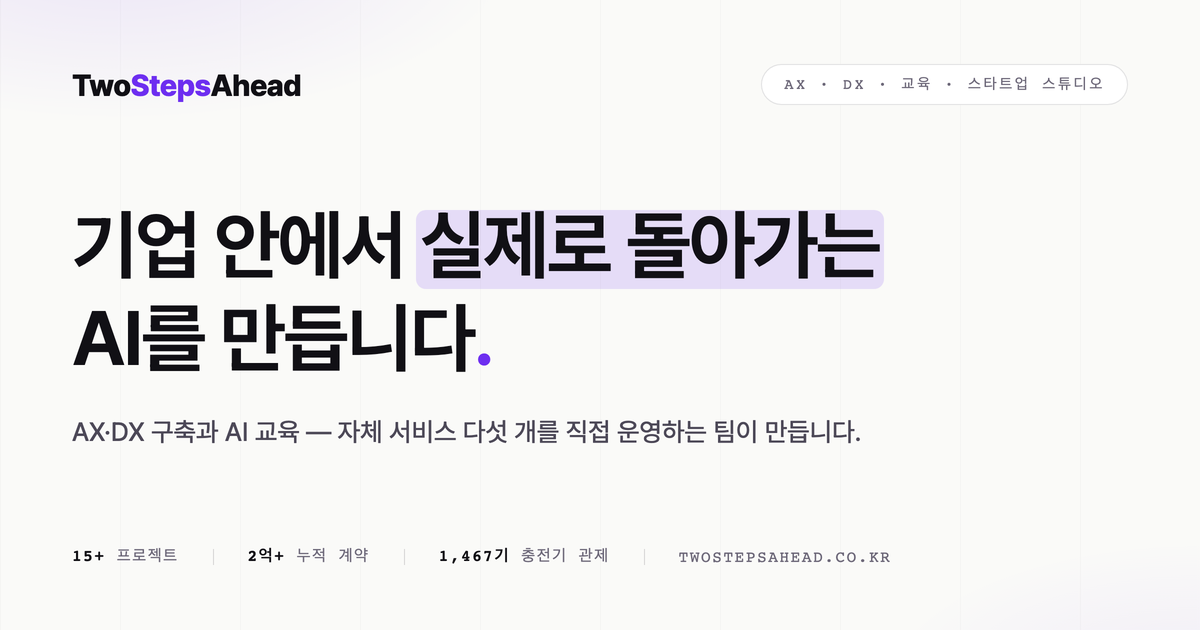
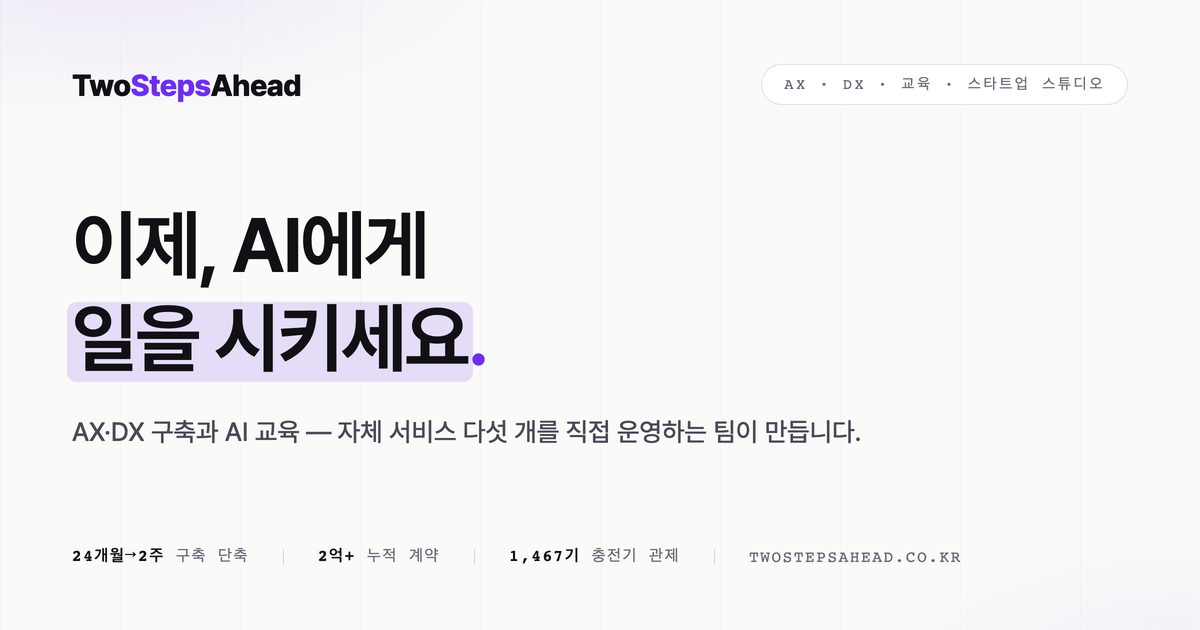
feat(hero): 히어로 문구 교체 + 스토리형 스탯 + 전체 포트폴리오 마퀴
- 헤드라인: '기업 안에서 실제로 돌아가는 AI를 만듭니다' → '이제, AI에게 일을 시키세요.'
  (하이라이트 마크 = '일을 시키세요')
- 스탯을 성과 스토리형으로 재구성(joshua 문법 변주, 전부 공개 검증 수치):
  24개월→2주 구축 단축 · 1,467기 실운영 · 2억+ 누적 계약 · 5개 운영 서비스
- 클라이언트월 → 무한 횡스크롤 마퀴(11사 전체 나열: +아워컨설팅·한인텔·더블유디자인호텔·한국관광공사)
  호버 일시정지·edge 페이드·reduced-motion 정적 폴백
- OG 이미지 재생성(새 헤드라인·스탯 동기화)

Changed region(s): [[0.0308, 0.3317, 0.74, 0.6333], [0.0617, 0.8746, 0.8017, 0.9048]]

diff --git a/src/app/components/StatsBand.tsx b/src/app/components/StatsBand.tsx
@@ -1,10 +1,62 @@
+import { useReducedMotion } from 'motion/react';
 import { Reveal } from './anim/Reveal';
 import { CLIENTS, STATS } from '../content';
 
 /**
- * 스탯 밴드 + 클라이언트 텍스트월 — 히어로 직후 얇은 신뢰 밴드.
- * 로고 이미지 없이 텍스트 로우(회색)로 클라이언트를 나열한다.
+ * 히어로 직후 신뢰 밴드 — 성과 스토리형 스탯 4개(숫자가 변화를 말하게)
+ * + 전체 포트폴리오·파트너 무한 횡스크롤 마퀴.
  */
+function ClientMarquee() {
+  const reduce = useReducedMotion();
+
+  const Row = ({ ariaHidden = false }: { ariaHidden?: boolean }) => (
+    <div
+      className="flex shrink-0 items-center gap-12 pr-12"
+      aria-hidden={ariaHidden || undefined}
+    >
+      {CLIENTS.map((c) => (
+        <span
+          key={c}
+          className="flex items-center gap-12 whitespace-nowrap font-dc-display text-[17px] font-semibold tracking-[-0.01em] text-[color:var(--lt-mute-2)]"
+        >
+          {c}
+          <span aria-hidden="true" className="h-1 w-1 rounded-full bg-[color:var(--lt-line)]" />
+        </span>
+      ))}
+    </div>
+  );
+
+  if (reduce) {
+    // reduced-motion: 애니메이션 없이 전체 나열
+    return (
+      <div className="flex flex-wrap items-center gap-x-10 gap-y-3 py-7">
+        {CLIENTS.map((c) => (
+          <span key={c} className="font-dc-display text-[16px] font-semibold text-[color:var(--lt-mute-2)]">
+            {c}
+          </span>
+        ))}
+      </div>
+    );
+  }
+
+  return (
+    <div
+      className="lt-marquee relative overflow-hidden py-7"
+      role="marquee"
+      aria-label={`포트폴리오·파트너: ${CLIENTS.join(', ')}`}
+      style={{
+        maskImage: 'linear-gradient(90deg, transparent, black 8%, black 92%, transparent)',
+        WebkitMaskImage: 'linear-gradient(90deg, transparent, black 8%, black 92%, transparent)',
+      }}
+    >
+      <div className="lt-marquee-track flex w-max">
+        <Row />
+        <Row ariaHidden />
+      </div>
+    </div>
+  );
+}
+
 export function StatsBand() {
   return (
     <section className="border-y border-[color:var(--lt-line)] bg-[color:var(--lt-card)] px-5 md:px-8">
@@ -13,28 +65,19 @@ export function StatsBand() {
           <dl className="grid grid-cols-2 gap-x-8 gap-y-8 py-10 md:grid-cols-4">
             {STATS.map((s) => (
               <div key={s.k} className="flex flex-col gap-1.5">
-                <dd className="order-1 font-dc-display text-[clamp(1.7rem,3vw,2.4rem)] font-semibold leading-none tracking-[-0.02em] text-[color:var(--lt-ink)]">
+                <dd className="order-1 break-keep font-dc-display text-[clamp(1.5rem,2.6vw,2.1rem)] font-semibold leading-tight tracking-[-0.02em] text-[color:var(--lt-ink)]">
                   {s.v}
                 </dd>
-                <dt className="order-2 font-dc-mono text-[10.5px] uppercase tracking-[0.14em] text-[color:var(--lt-mute-2)]">
+                <dt className="order-2 break-keep font-dc-body text-[12.5px] leading-snug text-[color:var(--lt-mute-2)]">
                   {s.k}
                 </dt>
               </div>
             ))}
           </dl>
         </Reveal>
-        <Reveal delay={0.08}>
-          <div className="flex flex-wrap items-center gap-x-8 gap-y-3 border-t border-[color:var(--lt-line)] py-7">
-            <span className="font-dc-mono text-[10.5px] uppercase tracking-[0.18em] text-[color:var(--lt-mute-2)]">
-              Clients &amp; Partners
-            </span>
-            {CLIENTS.map((c) => (
-              <span key={c} className="font-dc-display text-[15px] font-semibold tracking-[-0.01em] text-[color:var(--lt-mute-2)]">
-                {c}
-              </span>
-            ))}
-          </div>
-        </Reveal>
+        <div className="border-t border-[color:var(--lt-line)]">
+          <ClientMarquee />
+        </div>
       </div>
     </section>
   );

diff --git a/src/app/content.ts b/src/app/content.ts
@@ -16,22 +16,29 @@ export const HERO = {
   chip: 'AX · DX · 교육 · 스타트업 스튜디오',
   /** headline: highlight=true 세그먼트에 형광 마크 */
   headline: [
-    { text: '기업 안에서 ', highlight: false },
-    { text: '실제로 돌아가는', highlight: true },
-    { text: ' AI를 만듭니다', highlight: false },
+    { text: '이제, AI에게 ', highlight: false },
+    { text: '일을 시키세요', highlight: true },
   ],
   sub: '투스텝스어헤드는 AX·DX를 설계하고 구축하는 AI 개발사입니다.\n자체 AI 서비스 다섯 개를 직접 운영하며, 그 경험 그대로 기업에 적용합니다.',
   primaryCta: { label: '무료 상담받기', href: '#contact' },
   secondaryCta: { label: '사례 보기', href: '#work' },
 };
 
+/**
+ * 성과 스토리형 스탯 — 숫자가 속도·역량의 변화를 말하게(joshua 문법의 변주).
+ * 전부 공개 검증분: 24개월→2주·1,467기(ChargeFLOW 공개 제안서), 2억+(위시켓 프로필).
+ */
 export const STATS = [
-  { v: '15+', k: '프로젝트' },
-  { v: '2억+', k: '누적 계약 · 설립 6개월' },
-  { v: '5개', k: '직접 운영하는 서비스' },
-  { v: '1,467기', k: '충전기 실운영 관제' },
+  { v: '24개월 → 2주', k: '충전 관제 구축, 구독 도입으로 단축' },
+  { v: '1,467기', k: '실운영 중인 충전기 관제' },
+  { v: '2억+', k: '설립 6개월 차 누적 계약' },
+  { v: '5개', k: '직접 만들어 운영하는 AI 서비스' },
 ];
 
+/**
+ * 포트폴리오·파트너 전체 — 무한 횡스크롤 마퀴용.
+ * 전부 위시켓·크몽에 공개된 실명(의료기관 등 익명 건 제외).
+ */
 export const CLIENTS = [
   '한솔엠에스',
   '어센트코리아',
@@ -40,6 +47,10 @@ export const CLIENTS = [
   'Kozy.care',
   '올댓아너스클럽',
   '레비타로',
+  '아워컨설팅',
+  '한인텔',
+  '더블유디자인호텔',
+  '한국관광공사',
 ];
 
 export const JOURNEY = {

diff --git a/src/styles/theme.css b/src/styles/theme.css
@@ -479,6 +479,17 @@
   /* Engineering-studio signal: 시스템 모노 스택 (폰트 로드 0) — 아이브로우·태그·메타 전용 */
   .font-dc-mono    { font-family: ui-monospace, 'SF Mono', 'Cascadia Mono', 'Roboto Mono', monospace; }
 
+  /* 클라이언트 마퀴 — 트랙을 2벌 복제해 -50% 이동으로 무한 루프. 호버 일시정지,
+     reduced-motion에선 애니메이션 없이 줄바꿈 나열로 폴백(컴포넌트에서 처리). */
+  @media (prefers-reduced-motion: no-preference) {
+    @keyframes lt-marquee {
+      from { transform: translateX(0); }
+      to   { transform: translateX(-50%); }
+    }
+    .lt-marquee-track { animation: lt-marquee 38s linear infinite; }
+    .lt-marquee:hover .lt-marquee-track { animation-play-state: paused; }
+  }
+
   /* Glassmorphism surface */
   .dc-glass {
     background: rgba(255, 255, 255, 0.05);
